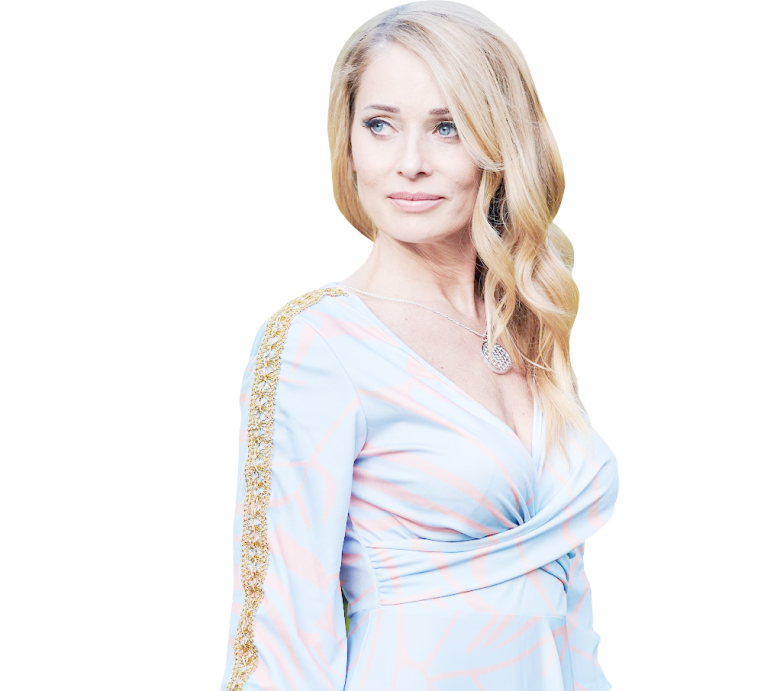
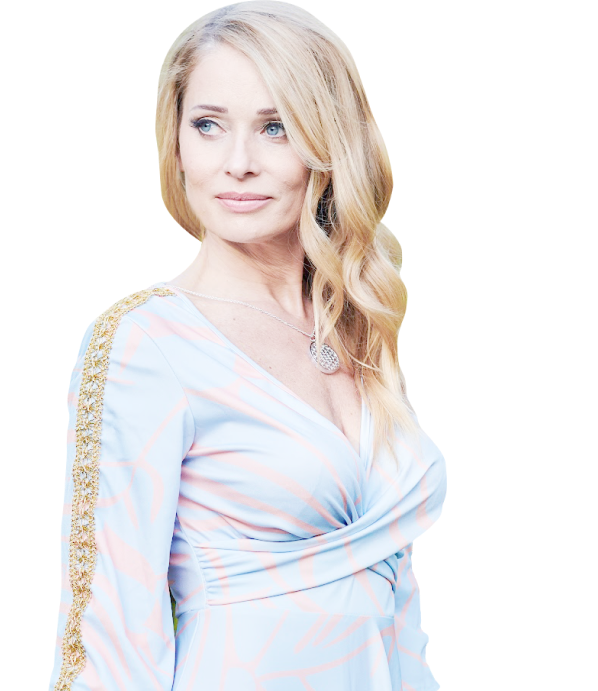
fixed lady photo, checked with perfect pixel

diff --git a/css/style.css b/css/style.css
@@ -6,31 +6,29 @@ body {
     font-style: normal;
     font-weight: normal;
 }
-
+.container {
+    width: 1260px;
+    margin: 0 auto 0 auto;
+}
 
 /* First block*/
 .block-1 {
     background-color: #EEF9FF;
-    width: 1920px;
-    height: 800px;
+    height: 798px;
 }
-.block-1_wrap {
-    width: 1260px;
-    height: 800px;
-    padding-bottom: 80px;
-    margin-left: auto;
-    margin-right: auto;
-}
+/* Header with logo and navbar */
 header {
-    height: 65px;
+    height: 45px;
     margin: auto;
-    padding-top: 30px;
+    padding-top: 26px;
     display: flex;
     justify-content: space-between;
     /* flex-wrap: wrap; */
 }
-
-.logo_name {
+.logo {
+    margin-top: 5px;
+}
+.logo__name {
     display: inline-block;
     width: 165px;
     font-style: normal;
@@ -40,8 +38,7 @@ header {
     color: #363636;
 }
 
-.logo_comment {
-    padding-top: 2px;
+.logo__comment {
     display: inline-block;
     width: 129px;
     font-size: 12px;
@@ -50,12 +47,11 @@ header {
     position: relative;
 }
 
-.logo_name + .logo_comment {
+.logo__name + .logo__comment {
     padding-left: 50px;
 }
-.logo_comment::before {
+.logo__comment::before {
     content: '';
-    /* display: block; */
     position: absolute;
     top:0;
     left: 23px;
@@ -69,16 +65,12 @@ header {
 .nav {
     display: inline-block;
     text-align: justify;
-    /* float: right; */
-    padding-top: 7px;
+    padding-top: 6px;
 }
-/* .logo_comment + .nav {
-    padding-left: 88px;
-} */
+
 .nav a {
     display: inline-block;
     height: 18px;
-    /* width: 728px; */
     font-weight: 700;
     font-size: 13px;
     line-height: 18px;
@@ -93,14 +85,16 @@ header {
 .nav .active {
     border-bottom: 1px solid #363636;
 }
+
 /* Первый блок информации и список */
-.block-1_content {
-    /* clear: both; */
+.block-1__content {
     width:100%;
-    margin: 50px auto;
+    height:654px;
+    margin: 73px auto 0 auto;
     position: relative;
+    display: inline-block;
 }
-.block-1_content h1 {
+.block-1__content h1 {
     margin: 0;
     font-size: 82px;
     line-height: 1.1;
@@ -108,30 +102,30 @@ header {
     font-weight: 500;
     width: 634px;
 }
-.block-1_content h1 span {
+.block-1__content h1 span {
     color:  #69B0AC;
     font-family: 'Uni Neue Book' sans-serif;
 }
-.short-text {
+.block-1__content .short-text {
     width: 440px;
     height: 75px;
-    padding-top: 27px;
+    padding-top: 26px;
     line-height: 1.75;
     font-weight: 500;
     font-size: 16px;
     color: #7C7C7C;
 }
-.block-1_content ul li {
+.block-1__content ul li {
     list-style: none;
     padding-bottom: 18px;
     color: #545454;
 }
-.block-1_content ul {
+.block-1__content ul {
     margin: 0;
-    padding: 20px 0;
+    padding: 22px 0 0 0;
 
 }
-.block-1_content ul li::before{
+.block-1__content ul li::before{
     content: "";
     width:20px;
     height: 23px;
@@ -143,22 +137,24 @@ header {
 }
 /* Main photo */
 .photo {
-    display: inline-block;
     position: absolute;
-    top:-36px;
-    right:-86px;
-    width: 770px;
+    width: 598px;
+    height:691px;
+    background-image: url('../img/lady.png');
+    bottom: 0;
+    right: -86px;
 }
+
 /* Scroll down */
 .scroll-down {
     display: block;
-    background-image: url('../icons/scroll.svg');
+    background-image: url('../icons/scroll.png');
     background-repeat: no-repeat;
-    width: 421px;
-    height: 250px;
+    width: 98px;
+    height: 39px;
     position: absolute;
-    bottom: -141px;
-    left:426px;
+    bottom: -39px;
+    left: calc(50% - 48px);
 }
 .scroll-down button {
     background-image: url('../icons/errowdown.png');
@@ -166,8 +162,8 @@ header {
     width: 56px;
     height: 58px;
     position: absolute;
-    bottom: 59px;
-    left:178px;
+    bottom: 0;
+    left:calc(50% - 28px);
     border: none;
     cursor: pointer;
     background-color: transparent;
@@ -192,23 +188,19 @@ outline: none !important;
 
 /* Second block and footer */
 .block-2 {
-    width: 1920px;
     height: 1057px;
     margin-top: 43px;
     background: linear-gradient(180deg, #FFFFFF 49.96%, #EFF9FF 100%);
 }
 .block-2_wrap {
     height: 969px;
-    width: 1260px;
-    /* padding-bottom: 123px; */
-    margin-left: auto;
-    margin-right: auto;
     padding-top: 88px;
 }
 /* block 2 heading */
 .heading {
     text-align: center;
     margin-bottom: 61px;
+    margin-top: 131px;
 }
 .heading h2 {
     font-family: 'Uni Neue Book';
@@ -230,8 +222,9 @@ outline: none !important;
 /* video and description */
 .video_wrap {
     display: flex;
-    justify-content: flex-start;
-    align-items: flex-start;
+    /* justify-content: flex-start;
+    align-items: flex-start; */
+    margin-left: 1px;
 }
 .video {
     position: relative;
@@ -239,16 +232,27 @@ outline: none !important;
     align-items: center; */
     width: 605px;
     height: 400px;
-    border-radius: 40px;
+    border-radius: 50px;
     overflow: hidden;
     border: 10px solid #fff;
-    filter: drop-shadow(0px 4px 4px rgba(0, 0, 0, 0.25));
+    box-shadow: 0px 80px 100px rgba(211, 226, 235, 0.8);
 }
 .video_image {
     width: 100%;
     height: 100%;
     object-fit: cover;
     order: 0;
+    /* transform: translate(-1px, -3px); */
+}
+.video::before {
+    content: "";
+    display: block;
+    position: absolute;
+    left: 0;
+    top: 0;
+    width: 100%;
+    height: 100%;
+    background: radial-gradient(25.3% 57.25% at 50% 50%, rgba(80, 152, 190, 0.5) 0%, rgba(52, 113, 146, 0.76) 100%);
 }
 
 .play_button {
@@ -315,6 +319,7 @@ outline: none !important;
 .story p {
     padding-top: 0;
     margin-top: 0;
+    margin-bottom: 18px;
     font-weight: 500;
     font-size: 16px;
     line-height: 1.79;
@@ -331,7 +336,7 @@ outline: none !important;
     display: flex;
     justify-content: space-between;
     align-items: center;
-    margin-top: 71px;
+    margin-top: 73px;
 
 }
 .number_digit {
@@ -350,23 +355,23 @@ outline: none !important;
     font-size: 24px;
     line-height: 1.17;
     color: #363636;
-    margin-right: 20px;
+    margin-right: 17px;
 }
 .number_normal {
     display: inline-block;
     vertical-align:top;
-    padding-top: 6px;
+    padding-top: 8px;
     font-weight: 500;
     font-size: 16px;
     line-height: 1.37;
     color: #545454;
 }
 .boulets_1, .boulets_2 {
-    height: 85px;
+    height: 72px;
 }
 .boulets_1 {
-    padding-left: 20px;
+    padding-left: 26px;
 }
 .boulets_2 {
-    padding-right: 20px;
+    padding-right: 22px;
 }

diff --git a/index.html b/index.html
@@ -9,11 +9,11 @@
   </head>
   <body>
       <div class="block-1">
-        <div class="block-1_wrap">
+        <div class=" container">
           <header>
             <div class = "logo">
-              <div class="logo_name">Жанна Тата</div>
-              <div class="logo_comment">Сертифицированный тренер по тета-хилингу</div>
+              <div class="logo__name">Жанна Тата</div>
+              <div class="logo__comment">Сертифицированный тренер по тета-хилингу</div>
             </div>
             <div class="nav">
               <a href = "#" class = "active">ОБО МНЕ</a>
@@ -25,7 +25,7 @@
               <a href = "#">КОНТАКТЫ</a>
             </div>
           </header>
-          <div class="block-1_content">
+          <div class="block-1__content">
             <h1>Обучающий курс <span>Тета Хилинга</span></h1>
             <div class = "short-text">Раскройте в себе новые качества и способности и научитесь управлять своей жизнью</div>
             <ul>
@@ -38,7 +38,10 @@
               <li><strong>Преодоление</strong> деструктивных убеждений</li>
             </ul>
             <div class="photo">
-              <img src = "./img/Lady.png">
+              <div class="photo__box">
+
+              </div>
+              <!-- <img src = "./img/Lady.png"> -->
             </div>
             <div class="scroll-down">
               <button></button>
@@ -48,7 +51,7 @@
       </div>
 
       <div class="block-2">
-        <div class="block-2_wrap">
+        <div class="container">
           <div class="heading">
             <h2>Меня зовут Жанна, и я вам</br>
               <span>помогу трансформировать </span>свою жизнь
@@ -65,7 +68,7 @@
                 личную жизнь. Тогда я поняла, что только изменив себя, возможно
                 изменить мир вокруг себя.
               </p>
-              <p style="margin-bottom: 17px;">Впервые посетив индийского, гуру который приехал в Европу и <strong>получила
+              <p>Впервые посетив индийского, гуру который приехал в Европу и <strong>получила
                 даршан,</strong> соприкоснулась с местной культурой и глубокой верой и смогла
                 получить ответы на свои вопросы.
               </p>
